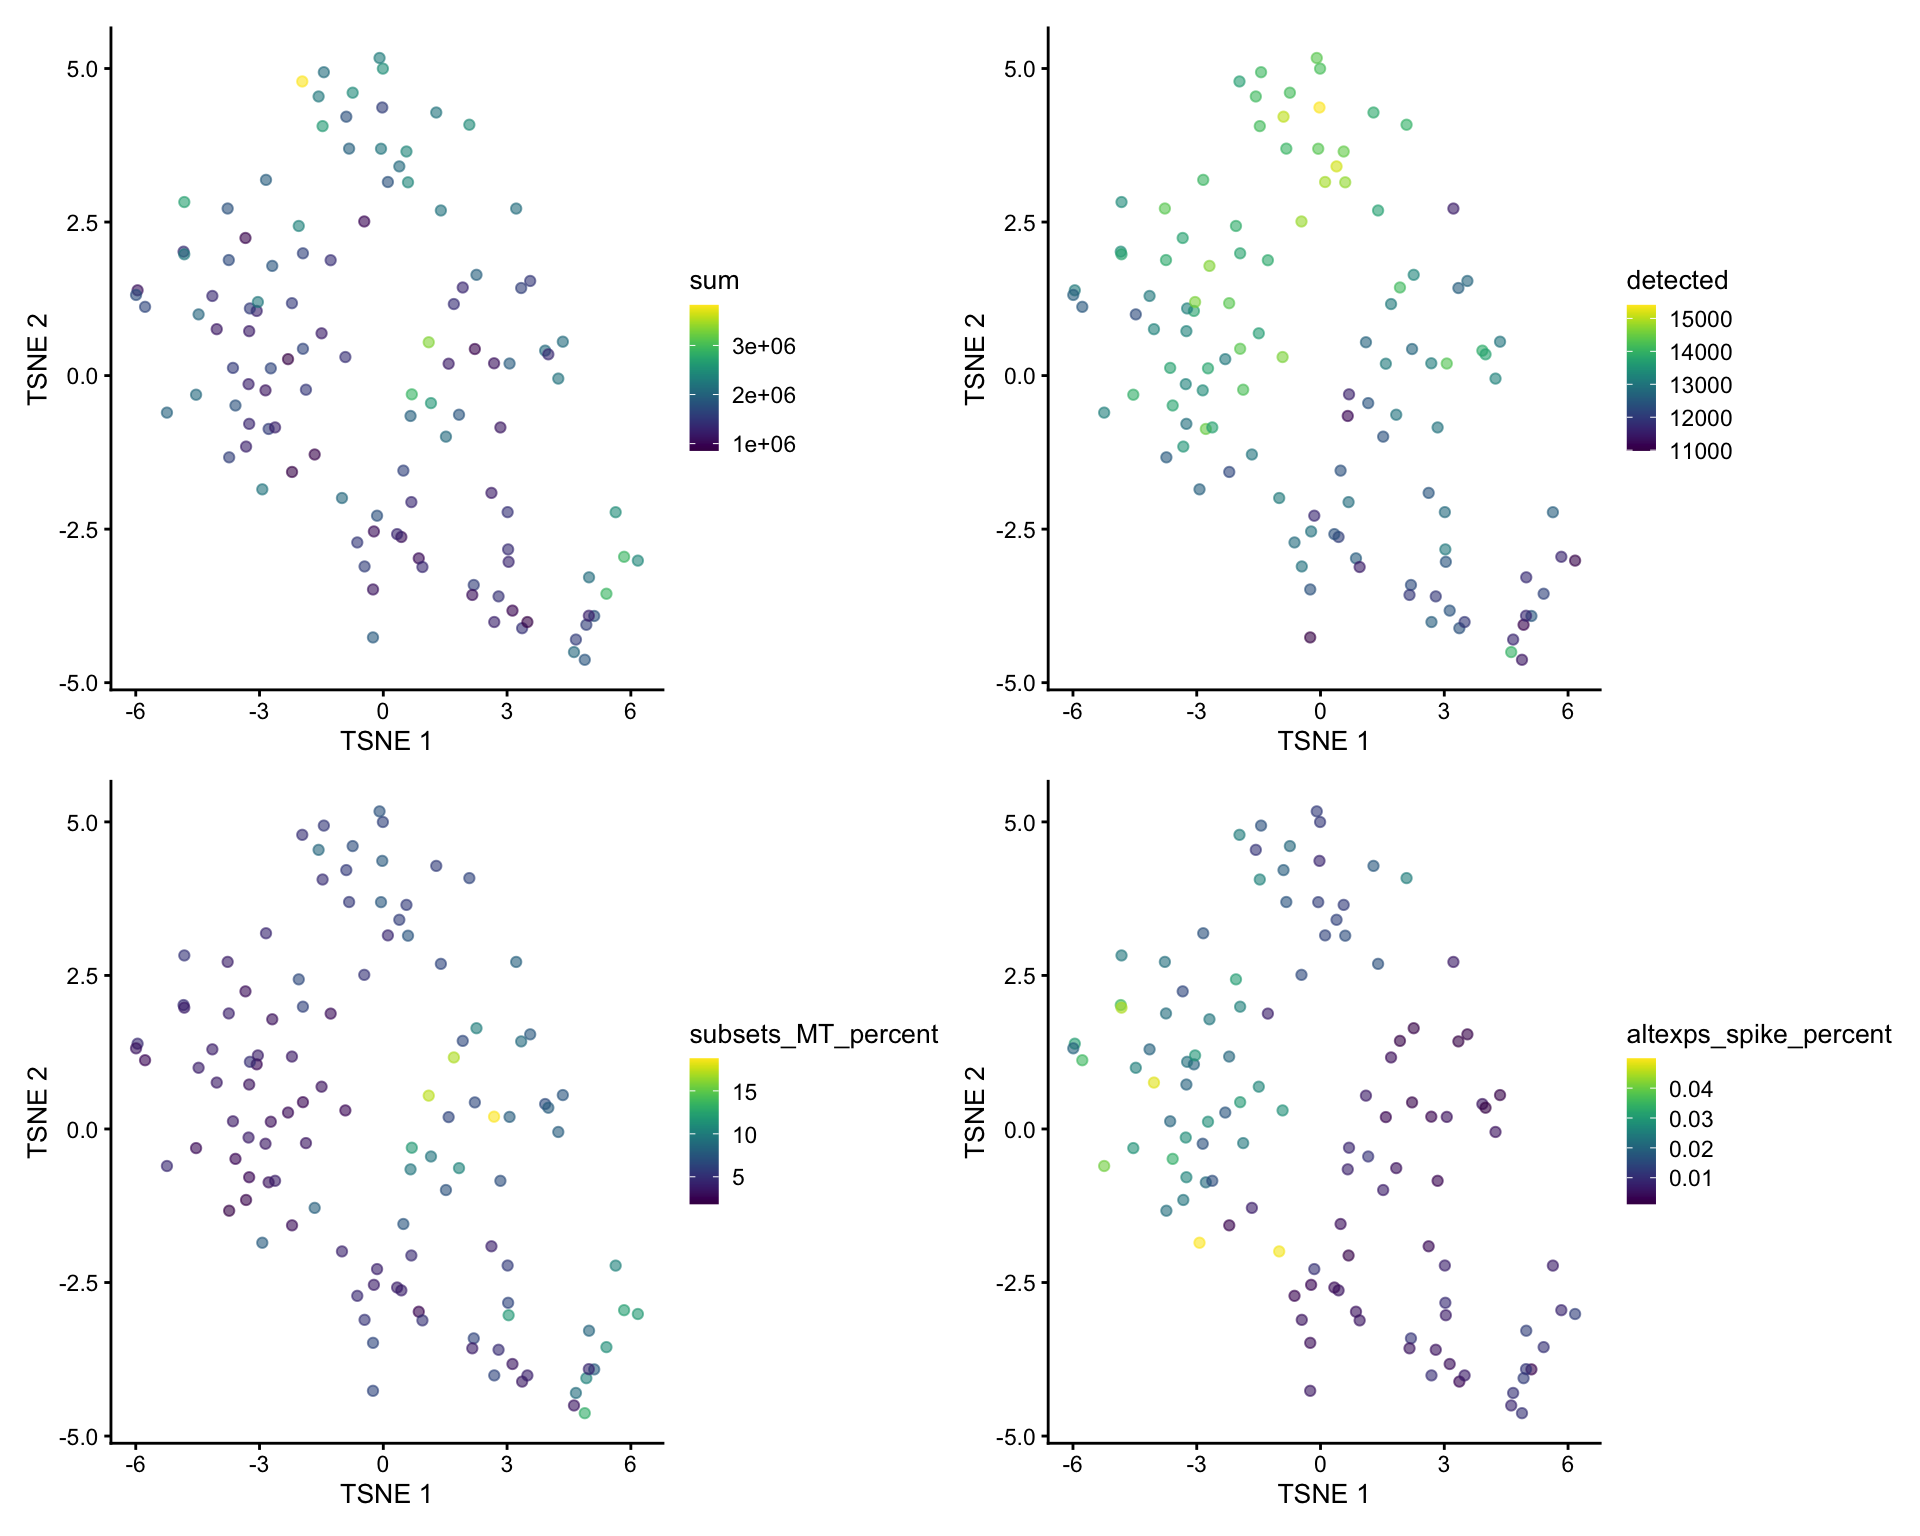
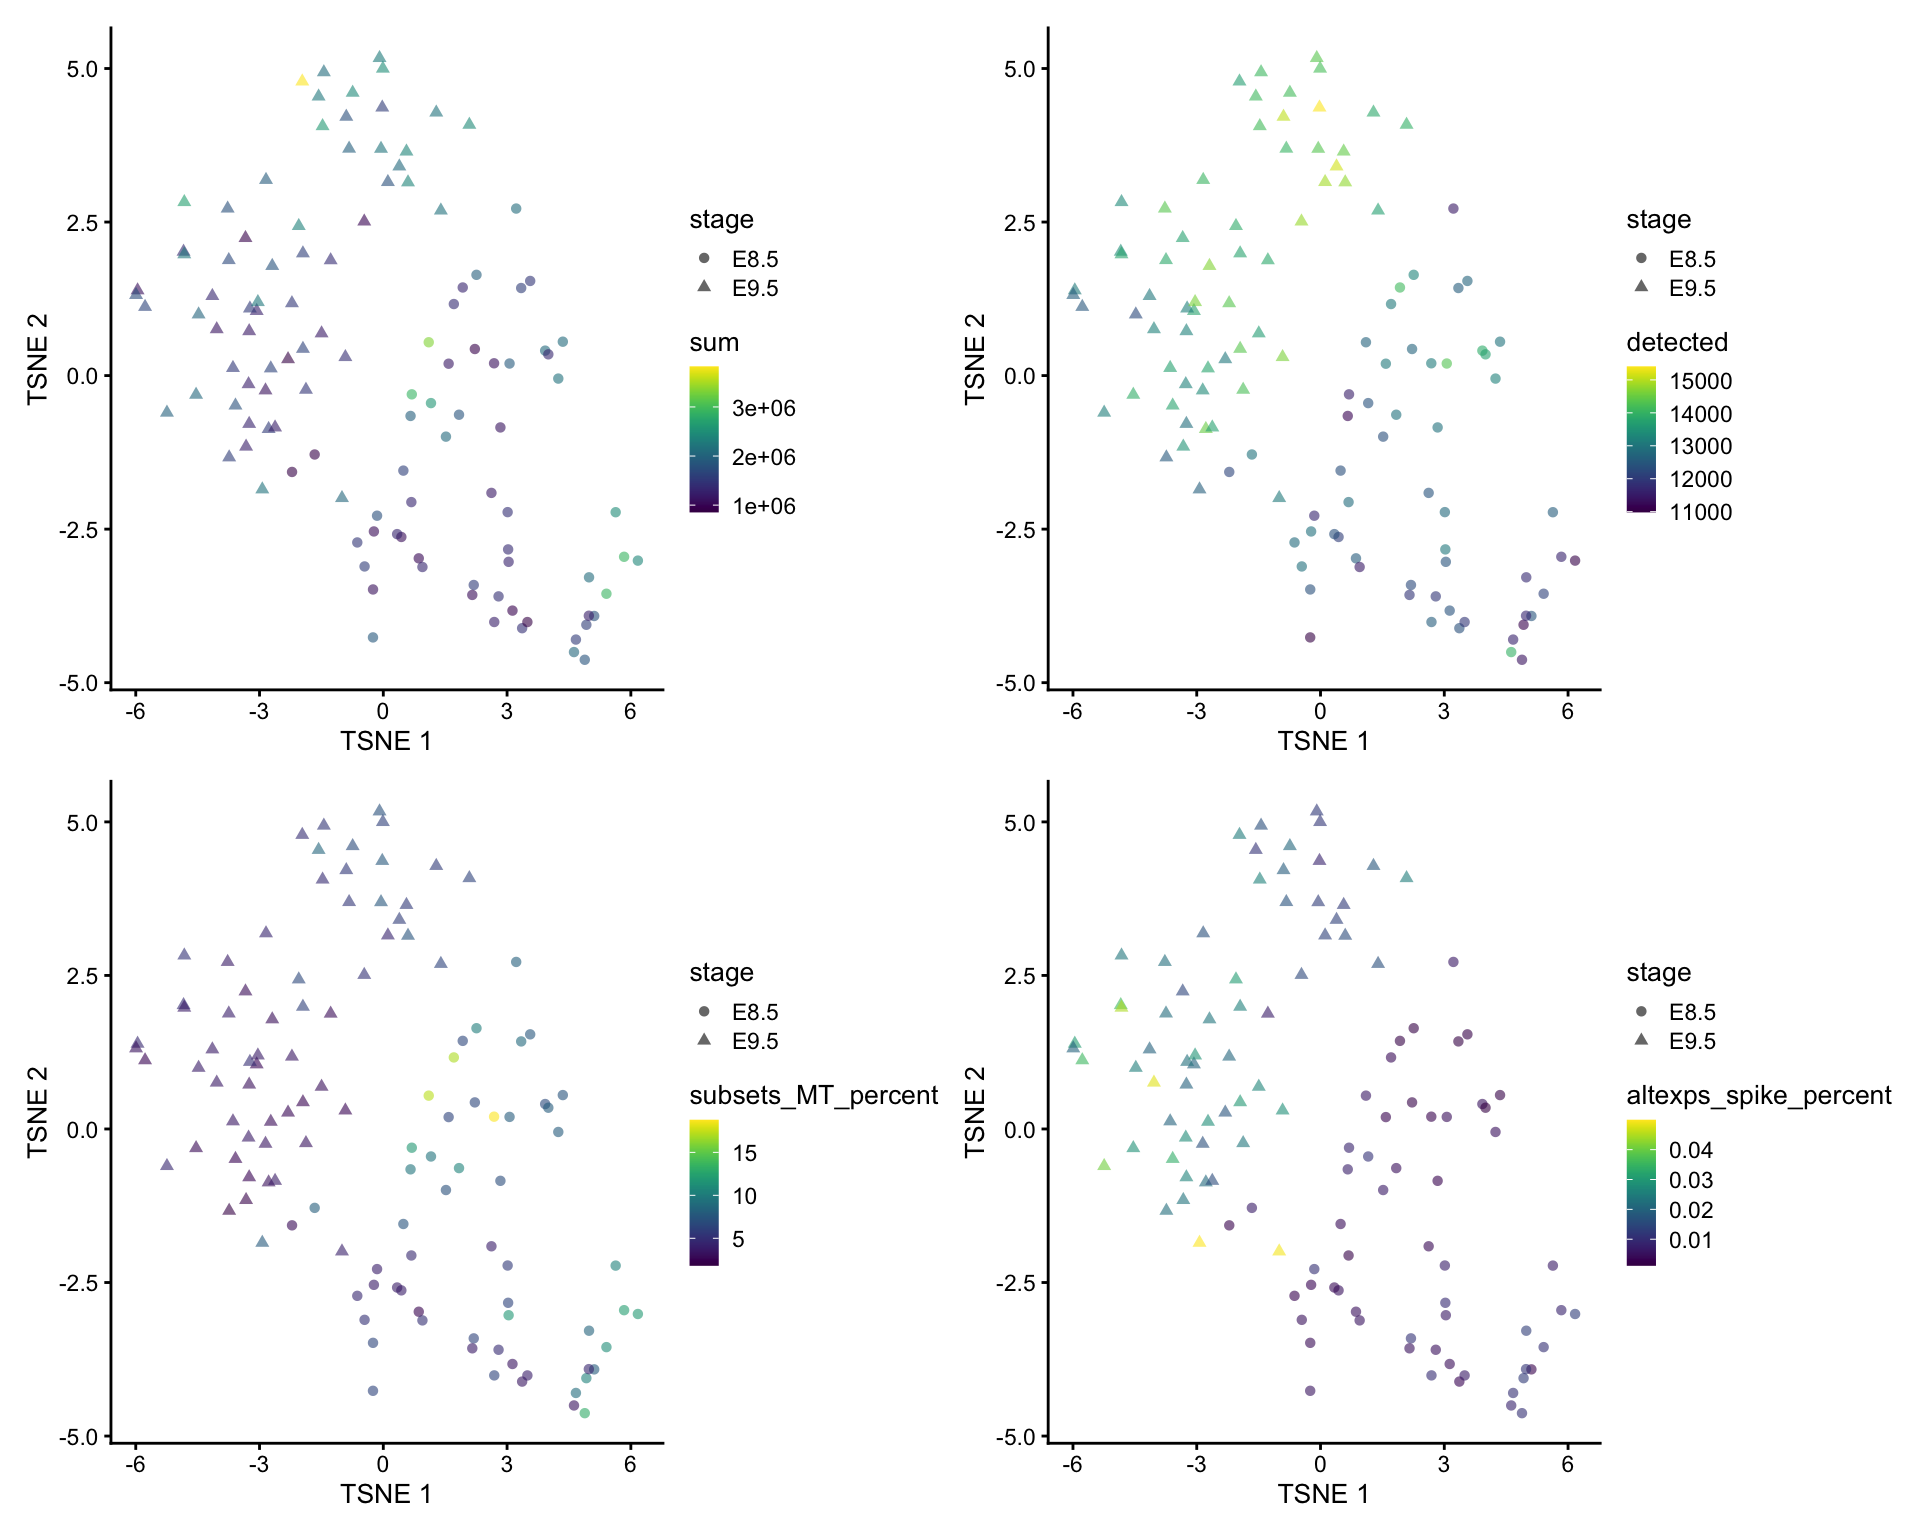
Build

diff --git a/docs/04-reduced-dimensions.html b/docs/04-reduced-dimensions.html
@@ -556,16 +556,16 @@ This reproducible <a href="http://rmarkdown.rstudio.com">R Markdown</a> analysis
 <div class="panel panel-default">
 <div class="panel-heading">
 <p class="panel-title">
-<a data-toggle="collapse" data-parent="#workflowr-checks" href="#strongRepositoryversionstrong0a1e7f0"> <span class="glyphicon glyphicon-ok text-success" aria-hidden="true"></span> <strong>Repository version:</strong> 0a1e7f0 </a>
+<a data-toggle="collapse" data-parent="#workflowr-checks" href="#strongRepositoryversionstrongf0eccc3"> <span class="glyphicon glyphicon-ok text-success" aria-hidden="true"></span> <strong>Repository version:</strong> f0eccc3 </a>
 </p>
 </div>
-<div id="strongRepositoryversionstrong0a1e7f0" class="panel-collapse collapse">
+<div id="strongRepositoryversionstrongf0eccc3" class="panel-collapse collapse">
 <div class="panel-body">
 <p>
 Great! You are using Git for version control. Tracking code development and connecting the code version to the results is critical for reproducibility.
 </p>
 <p>
-The results in this page were generated with repository version 0a1e7f0. See the <em>Past versions</em> tab to see a history of the changes made to the R Markdown and HTML files.
+The results in this page were generated with repository version f0eccc3. See the <em>Past versions</em> tab to see a history of the changes made to the R Markdown and HTML files.
 </p>
 <p>
 Note that you need to be careful to ensure that all relevant files for the analysis have been committed to Git prior to generating the results (you can use <code>wflow_publish</code> or <code>wflow_git_commit</code>). workflowr only checks the R Markdown file, but you know if there are other scripts or data files that it depends on. Below is the status of the Git repository when the results were generated:
@@ -631,6 +631,40 @@ Message
 </tr>
 </thead>
 <tbody>
+<tr>
+<td>
+Rmd
+</td>
+<td>
+f0eccc3
+</td>
+<td>
+James Ashmore
+</td>
+<td>
+2021-04-16
+</td>
+<td>
+Build
+</td>
+</tr>
+<tr>
+<td>
+html
+</td>
+<td>
+5b9f72c
+</td>
+<td>
+James Ashmore
+</td>
+<td>
+2021-04-16
+</td>
+<td>
+Build
+</td>
+</tr>
 <tr>
 <td>
 Rmd
@@ -935,7 +969,7 @@ sce &lt;- runUMAP(sce, dimred = &quot;PCA&quot;, n_neighbors = 21, min_dist = 0.
 <h3>PCA</h3>
 <pre class="r"><code>var &lt;- c(&quot;sum&quot;, &quot;detected&quot;, &quot;subsets_MT_percent&quot;, &quot;altexps_spike_percent&quot;)
 
-plt &lt;- lapply(var, function(x) plotPCA(sce, colour_by = x))
+plt &lt;- lapply(var, function(x) plotPCA(sce, colour_by = x, shape_by = &quot;stage&quot;))
 
 patchwork::wrap_plots(plt, ncol = 2)</code></pre>
 <p><img src="figure/04-reduced-dimensions.Rmd/unnamed-chunk-19-1.png" width="960" style="display: block; margin: auto;" /></p>
@@ -981,7 +1015,7 @@ James Ashmore
 <h3>TSNE</h3>
 <pre class="r"><code>var &lt;- c(&quot;sum&quot;, &quot;detected&quot;, &quot;subsets_MT_percent&quot;, &quot;altexps_spike_percent&quot;)
 
-plt &lt;- lapply(var, function(x) plotTSNE(sce, colour_by = x))
+plt &lt;- lapply(var, function(x) plotTSNE(sce, colour_by = x, shape_by = &quot;stage&quot;))
 
 patchwork::wrap_plots(plt, ncol = 2)</code></pre>
 <p><img src="figure/04-reduced-dimensions.Rmd/unnamed-chunk-20-1.png" width="960" style="display: block; margin: auto;" /></p>
@@ -1009,6 +1043,17 @@ Date
 <tbody>
 <tr>
 <td>
+5b9f72c
+</td>
+<td>
+James Ashmore
+</td>
+<td>
+2021-04-16
+</td>
+</tr>
+<tr>
+<td>
 c92101a
 </td>
 <td>
@@ -1027,7 +1072,7 @@ James Ashmore
 <h3>UMAP</h3>
 <pre class="r"><code>var &lt;- c(&quot;sum&quot;, &quot;detected&quot;, &quot;subsets_MT_percent&quot;, &quot;altexps_spike_percent&quot;)
 
-plt &lt;- lapply(var, function(x) plotUMAP(sce, colour_by = x))
+plt &lt;- lapply(var, function(x) plotUMAP(sce, colour_by = x, shape_by = &quot;stage&quot;))
 
 patchwork::wrap_plots(plt, ncol = 2)</code></pre>
 <p><img src="figure/04-reduced-dimensions.Rmd/unnamed-chunk-21-1.png" width="960" style="display: block; margin: auto;" /></p>
@@ -1053,6 +1098,17 @@ Date
 </tr>
 </thead>
 <tbody>
+<tr>
+<td>
+5b9f72c
+</td>
+<td>
+James Ashmore
+</td>
+<td>
+2021-04-16
+</td>
+</tr>
 <tr>
 <td>
 c92101a

diff --git a/docs/02-normalization.html b/docs/02-normalization.html
@@ -556,16 +556,16 @@ This reproducible <a href="http://rmarkdown.rstudio.com">R Markdown</a> analysis
 <div class="panel panel-default">
 <div class="panel-heading">
 <p class="panel-title">
-<a data-toggle="collapse" data-parent="#workflowr-checks" href="#strongRepositoryversionstrong0a1e7f0"> <span class="glyphicon glyphicon-ok text-success" aria-hidden="true"></span> <strong>Repository version:</strong> 0a1e7f0 </a>
+<a data-toggle="collapse" data-parent="#workflowr-checks" href="#strongRepositoryversionstrongf0eccc3"> <span class="glyphicon glyphicon-ok text-success" aria-hidden="true"></span> <strong>Repository version:</strong> f0eccc3 </a>
 </p>
 </div>
-<div id="strongRepositoryversionstrong0a1e7f0" class="panel-collapse collapse">
+<div id="strongRepositoryversionstrongf0eccc3" class="panel-collapse collapse">
 <div class="panel-body">
 <p>
 Great! You are using Git for version control. Tracking code development and connecting the code version to the results is critical for reproducibility.
 </p>
 <p>
-The results in this page were generated with repository version 0a1e7f0. See the <em>Past versions</em> tab to see a history of the changes made to the R Markdown and HTML files.
+The results in this page were generated with repository version f0eccc3. See the <em>Past versions</em> tab to see a history of the changes made to the R Markdown and HTML files.
 </p>
 <p>
 Note that you need to be careful to ensure that all relevant files for the analysis have been committed to Git prior to generating the results (you can use <code>wflow_publish</code> or <code>wflow_git_commit</code>). workflowr only checks the R Markdown file, but you know if there are other scripts or data files that it depends on. Below is the status of the Git repository when the results were generated:
@@ -631,6 +631,23 @@ Message
 </tr>
 </thead>
 <tbody>
+<tr>
+<td>
+html
+</td>
+<td>
+5b9f72c
+</td>
+<td>
+James Ashmore
+</td>
+<td>
+2021-04-16
+</td>
+<td>
+Build
+</td>
+</tr>
 <tr>
 <td>
 html

diff --git a/docs/03-feature-selection.html b/docs/03-feature-selection.html
@@ -556,16 +556,16 @@ This reproducible <a href="http://rmarkdown.rstudio.com">R Markdown</a> analysis
 <div class="panel panel-default">
 <div class="panel-heading">
 <p class="panel-title">
-<a data-toggle="collapse" data-parent="#workflowr-checks" href="#strongRepositoryversionstrong0a1e7f0"> <span class="glyphicon glyphicon-ok text-success" aria-hidden="true"></span> <strong>Repository version:</strong> 0a1e7f0 </a>
+<a data-toggle="collapse" data-parent="#workflowr-checks" href="#strongRepositoryversionstrongf0eccc3"> <span class="glyphicon glyphicon-ok text-success" aria-hidden="true"></span> <strong>Repository version:</strong> f0eccc3 </a>
 </p>
 </div>
-<div id="strongRepositoryversionstrong0a1e7f0" class="panel-collapse collapse">
+<div id="strongRepositoryversionstrongf0eccc3" class="panel-collapse collapse">
 <div class="panel-body">
 <p>
 Great! You are using Git for version control. Tracking code development and connecting the code version to the results is critical for reproducibility.
 </p>
 <p>
-The results in this page were generated with repository version 0a1e7f0. See the <em>Past versions</em> tab to see a history of the changes made to the R Markdown and HTML files.
+The results in this page were generated with repository version f0eccc3. See the <em>Past versions</em> tab to see a history of the changes made to the R Markdown and HTML files.
 </p>
 <p>
 Note that you need to be careful to ensure that all relevant files for the analysis have been committed to Git prior to generating the results (you can use <code>wflow_publish</code> or <code>wflow_git_commit</code>). workflowr only checks the R Markdown file, but you know if there are other scripts or data files that it depends on. Below is the status of the Git repository when the results were generated:
@@ -631,6 +631,23 @@ Message
 </tr>
 </thead>
 <tbody>
+<tr>
+<td>
+html
+</td>
+<td>
+5b9f72c
+</td>
+<td>
+James Ashmore
+</td>
+<td>
+2021-04-16
+</td>
+<td>
+Build
+</td>
+</tr>
 <tr>
 <td>
 html

diff --git a/docs/about.html b/docs/about.html
@@ -417,16 +417,16 @@ This reproducible <a href="http://rmarkdown.rstudio.com">R Markdown</a> analysis
 <div class="panel panel-default">
 <div class="panel-heading">
 <p class="panel-title">
-<a data-toggle="collapse" data-parent="#workflowr-checks" href="#strongRepositoryversionstrong0a1e7f0"> <span class="glyphicon glyphicon-ok text-success" aria-hidden="true"></span> <strong>Repository version:</strong> 0a1e7f0 </a>
+<a data-toggle="collapse" data-parent="#workflowr-checks" href="#strongRepositoryversionstrongf0eccc3"> <span class="glyphicon glyphicon-ok text-success" aria-hidden="true"></span> <strong>Repository version:</strong> f0eccc3 </a>
 </p>
 </div>
-<div id="strongRepositoryversionstrong0a1e7f0" class="panel-collapse collapse">
+<div id="strongRepositoryversionstrongf0eccc3" class="panel-collapse collapse">
 <div class="panel-body">
 <p>
 Great! You are using Git for version control. Tracking code development and connecting the code version to the results is critical for reproducibility.
 </p>
 <p>
-The results in this page were generated with repository version 0a1e7f0. See the <em>Past versions</em> tab to see a history of the changes made to the R Markdown and HTML files.
+The results in this page were generated with repository version f0eccc3. See the <em>Past versions</em> tab to see a history of the changes made to the R Markdown and HTML files.
 </p>
 <p>
 Note that you need to be careful to ensure that all relevant files for the analysis have been committed to Git prior to generating the results (you can use <code>wflow_publish</code> or <code>wflow_git_commit</code>). workflowr only checks the R Markdown file, but you know if there are other scripts or data files that it depends on. Below is the status of the Git repository when the results were generated:
@@ -492,6 +492,23 @@ Message
 </tr>
 </thead>
 <tbody>
+<tr>
+<td>
+html
+</td>
+<td>
+5b9f72c
+</td>
+<td>
+James Ashmore
+</td>
+<td>
+2021-04-16
+</td>
+<td>
+Build
+</td>
+</tr>
 <tr>
 <td>
 html

diff --git a/docs/index.html b/docs/index.html
@@ -417,16 +417,16 @@ This reproducible <a href="http://rmarkdown.rstudio.com">R Markdown</a> analysis
 <div class="panel panel-default">
 <div class="panel-heading">
 <p class="panel-title">
-<a data-toggle="collapse" data-parent="#workflowr-checks" href="#strongRepositoryversionstrong0a1e7f0"> <span class="glyphicon glyphicon-ok text-success" aria-hidden="true"></span> <strong>Repository version:</strong> 0a1e7f0 </a>
+<a data-toggle="collapse" data-parent="#workflowr-checks" href="#strongRepositoryversionstrongf0eccc3"> <span class="glyphicon glyphicon-ok text-success" aria-hidden="true"></span> <strong>Repository version:</strong> f0eccc3 </a>
 </p>
 </div>
-<div id="strongRepositoryversionstrong0a1e7f0" class="panel-collapse collapse">
+<div id="strongRepositoryversionstrongf0eccc3" class="panel-collapse collapse">
 <div class="panel-body">
 <p>
 Great! You are using Git for version control. Tracking code development and connecting the code version to the results is critical for reproducibility.
 </p>
 <p>
-The results in this page were generated with repository version 0a1e7f0. See the <em>Past versions</em> tab to see a history of the changes made to the R Markdown and HTML files.
+The results in this page were generated with repository version f0eccc3. See the <em>Past versions</em> tab to see a history of the changes made to the R Markdown and HTML files.
 </p>
 <p>
 Note that you need to be careful to ensure that all relevant files for the analysis have been committed to Git prior to generating the results (you can use <code>wflow_publish</code> or <code>wflow_git_commit</code>). workflowr only checks the R Markdown file, but you know if there are other scripts or data files that it depends on. Below is the status of the Git repository when the results were generated:
@@ -492,6 +492,23 @@ Message
 </tr>
 </thead>
 <tbody>
+<tr>
+<td>
+html
+</td>
+<td>
+5b9f72c
+</td>
+<td>
+James Ashmore
+</td>
+<td>
+2021-04-16
+</td>
+<td>
+Build
+</td>
+</tr>
 <tr>
 <td>
 html

diff --git a/docs/license.html b/docs/license.html
@@ -417,16 +417,16 @@ This reproducible <a href="http://rmarkdown.rstudio.com">R Markdown</a> analysis
 <div class="panel panel-default">
 <div class="panel-heading">
 <p class="panel-title">
-<a data-toggle="collapse" data-parent="#workflowr-checks" href="#strongRepositoryversionstrong0a1e7f0"> <span class="glyphicon glyphicon-ok text-success" aria-hidden="true"></span> <strong>Repository version:</strong> 0a1e7f0 </a>
+<a data-toggle="collapse" data-parent="#workflowr-checks" href="#strongRepositoryversionstrongf0eccc3"> <span class="glyphicon glyphicon-ok text-success" aria-hidden="true"></span> <strong>Repository version:</strong> f0eccc3 </a>
 </p>
 </div>
-<div id="strongRepositoryversionstrong0a1e7f0" class="panel-collapse collapse">
+<div id="strongRepositoryversionstrongf0eccc3" class="panel-collapse collapse">
 <div class="panel-body">
 <p>
 Great! You are using Git for version control. Tracking code development and connecting the code version to the results is critical for reproducibility.
 </p>
 <p>
-The results in this page were generated with repository version 0a1e7f0. See the <em>Past versions</em> tab to see a history of the changes made to the R Markdown and HTML files.
+The results in this page were generated with repository version f0eccc3. See the <em>Past versions</em> tab to see a history of the changes made to the R Markdown and HTML files.
 </p>
 <p>
 Note that you need to be careful to ensure that all relevant files for the analysis have been committed to Git prior to generating the results (you can use <code>wflow_publish</code> or <code>wflow_git_commit</code>). workflowr only checks the R Markdown file, but you know if there are other scripts or data files that it depends on. Below is the status of the Git repository when the results were generated:
@@ -492,6 +492,23 @@ Message
 </tr>
 </thead>
 <tbody>
+<tr>
+<td>
+html
+</td>
+<td>
+5b9f72c
+</td>
+<td>
+James Ashmore
+</td>
+<td>
+2021-04-16
+</td>
+<td>
+Build
+</td>
+</tr>
 <tr>
 <td>
 html
